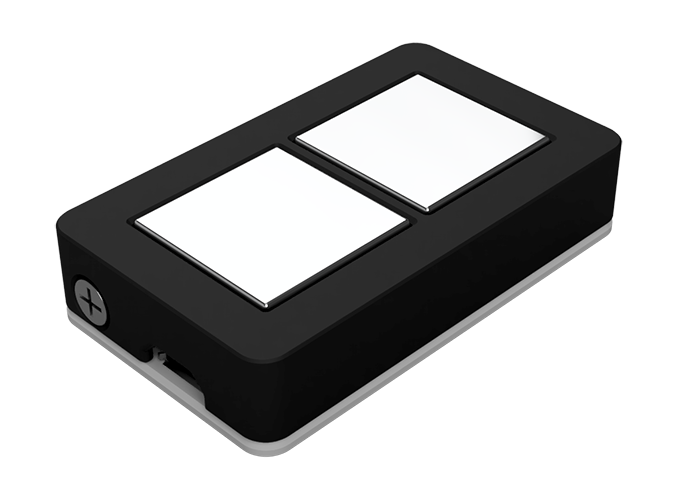
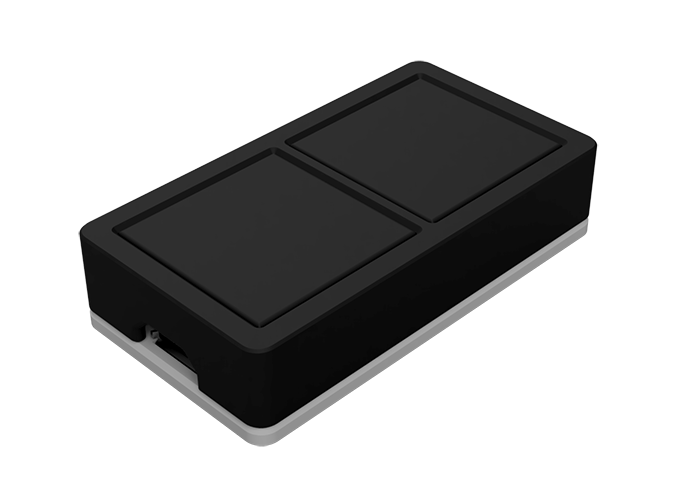
updated touch image

diff --git a/index.html b/index.html
@@ -89,10 +89,13 @@
           </div>
 
           <div class="carousel-item" style="text-align: center;">
-            <img src="images/touchRender.png"></img>
+            <div class="new-wrapper" style="position: relative; display:inline-flex; width: 700px; height: 500px;">
+              <img src="images/touchRender.png"></img>
+              <div class="carousel-super btn btn-success btn-lg" style="position: absolute; top: 0px; right: 0px; font-family: ground; font-weight: bold;"> Updated! </div>
+            </div>
             <div class="carousel-caption d-none d-md-block">
               <h3>Touch 2K Keypad</h3>
-              <p>Simple keypad using capacitive touch for osu!</p>
+              <p>Simple keypad using capacitive touch for osu-- slimmer than before!</p>
             </div>
           </div>
 
